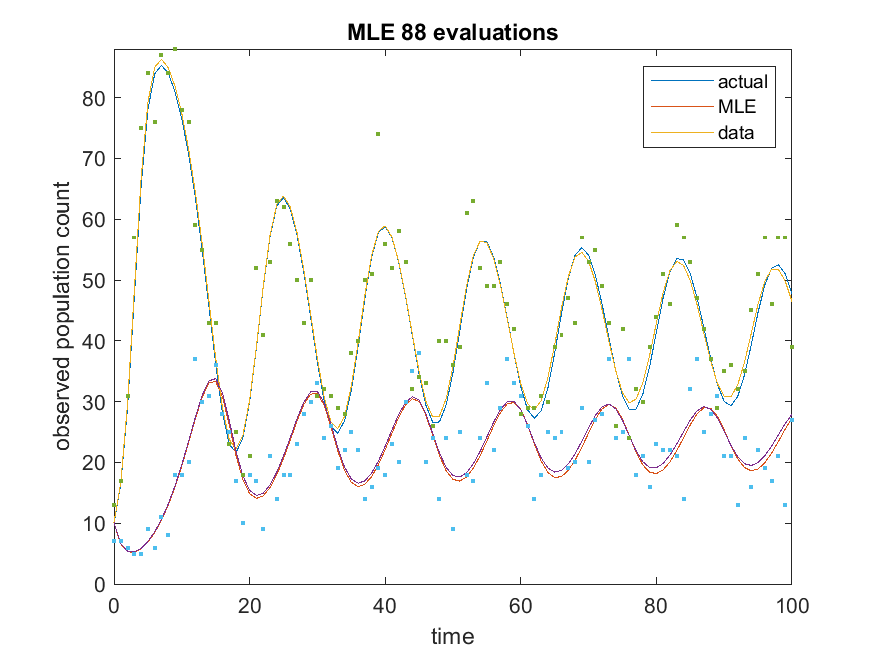
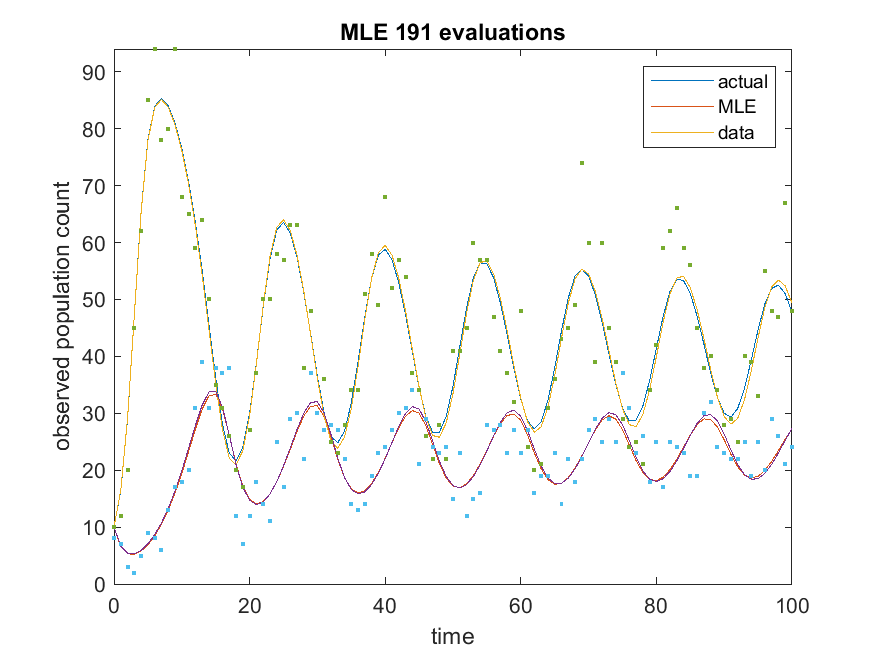
Inference on LV predator death rate
Now also doing inference on the predator death rate parameter (mu)

diff --git a/main.m b/main.m
@@ -74,23 +74,23 @@ for iModel = 1:nModels
         yLbl = 'observed population count';
 
         % Specify true values of parameters to be fitted
-        parLbl = ["r", "a", "pObs"];%, "obsSD"];
-        ThetaTrue = [1; 1.5; 0.1];%; par.obsSD];
+        parLbl = ["r", "a", "mu", "pObs"];%, "obsSD"];
+        ThetaTrue = [1; 1.5; 1; 0.1];%; par.obsSD];
 
         % Indices and values of parameters in parLbl to optimise without re-evaluating forward model in the improved method
-        parsToOptimise = 3;
+        parsToOptimise = 4;
         runningValues = 1;      % always run forward model with pObs = 1 under the improved method        
 
         % Initial guess for fitted parameters [r, a, pObs]
-        Theta0 = [0.95; 1.45; 0.11];%; 4];
+        Theta0 = [0.95; 1.45; 0.9; 0.11];%; 4];
         
         % Define lower and upper bounds on fitted parameters
-        lb = [0; 0; 0];%; 0];
-        ub = [10; 10; 1];%; 20];
+        lb = [0; 0; 0; 0];%; 0];
+        ub = [10; 10; 5; 1];%; 20];
         
         % Profile intervals for each parameter
-        ThetaLower = [0.8; 1.3; 0.08];%; 1];
-        ThetaUpper = [1.2; 1.7; 0.12];%; 4];
+        ThetaLower = [0.8; 1.3; 0.9; 0.08];%; 1];
+        ThetaUpper = [1.2; 1.7; 1.1; 0.12];%; 4];
     end
     
 
@@ -153,3 +153,5 @@ for iModel = 1:nModels
     relErrImproved(iModel) = norm(ThetaMLEImproved-ThetaTrue)/norm(ThetaTrue);
     
 end
+
+fprintf('Model %i.  Calls: basic %i, improved %i.  Relative error: basic %.3e, improved, %.3d\n', [1:nModels; totCallsBasic'; totCallsImproved'; relErrBasic'; relErrImproved'])

diff --git a/functions/doProfilingImproved.m b/functions/doProfilingImproved.m
@@ -19,7 +19,7 @@ ThetaMLEImproved_contracted = ThetaMLEImproved(parsToProfile);
 nPars = length(Theta0_contracted);
 countProfile = zeros(nPars, 1);
 logLik = zeros(nPars, nMesh);
-parfor iPar = 1:nPars
+for iPar = 1:nPars
     ThetaMesh = linspace(ThetaLower_contracted(iPar), ThetaUpper_contracted(iPar), nMesh);
     jOther = setdiff(1:nPars, iPar);
 
@@ -28,7 +28,11 @@ parfor iPar = 1:nPars
     ThetaOther0 = ThetaMLEImproved_contracted(jOther);                                % use MLE as initial guess for first run
     for iMesh = iStart:nMesh
         objFn = @(ThetaOther)(-calcLogLikImproved(getPar, solveModel, transformSolution, obs, makeTheta(ThetaMesh(iMesh), ThetaOther, iPar), parsToOptimise, runningValues, Theta0, lb, ub, options));
-        [x, f, ~, output] = fmincon(objFn, ThetaOther0, [], [], [], [], lb_contracted(jOther), ub_contracted(jOther), [], options);
+        try
+            [x, f, ~, output] = fmincon(objFn, ThetaOther0, [], [], [], [], lb_contracted(jOther), ub_contracted(jOther), [], options);
+        catch
+            0;
+        end
         ll(iMesh) = -f;
         ThetaOther0 = x;                                          % use profile solution as the initial guess for the next run
         countProfile(iPar) = countProfile(iPar) + output.funcCount;

diff --git a/functions/getParLV.m b/functions/getParLV.m
@@ -10,10 +10,10 @@ par.r = Theta(1);
 par.K = 1000;
 par.a = Theta(2);
 par.b = 200;
-par.mu = 1;
+par.mu = Theta(3);
 
 % Observation parameters
-par.pObs = Theta(3);        % proportion of population observed
+par.pObs = Theta(4);        % proportion of population observed
 
 % Noise model and parameters
 par.noiseModel = "poisson";        % noise model is normal with SD proportional to mean

diff --git a/functions/solveModelLV.m b/functions/solveModelLV.m
@@ -15,7 +15,6 @@ if t(end) < par.tMax
     nPad = length(tPad);
     t = [t; tPad];
     Y = [Y; inf*ones(nPad, nVars)];
-    size(Y)
 end
 
 % Extract solution variables from ODE solver output
